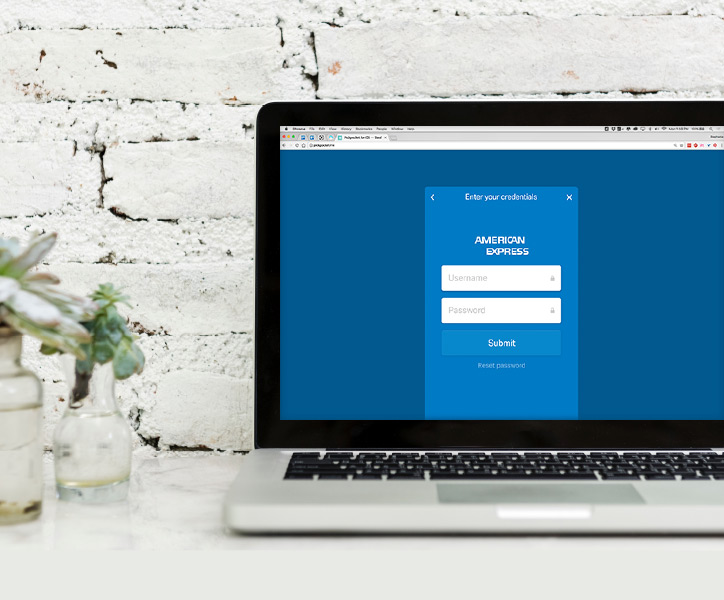
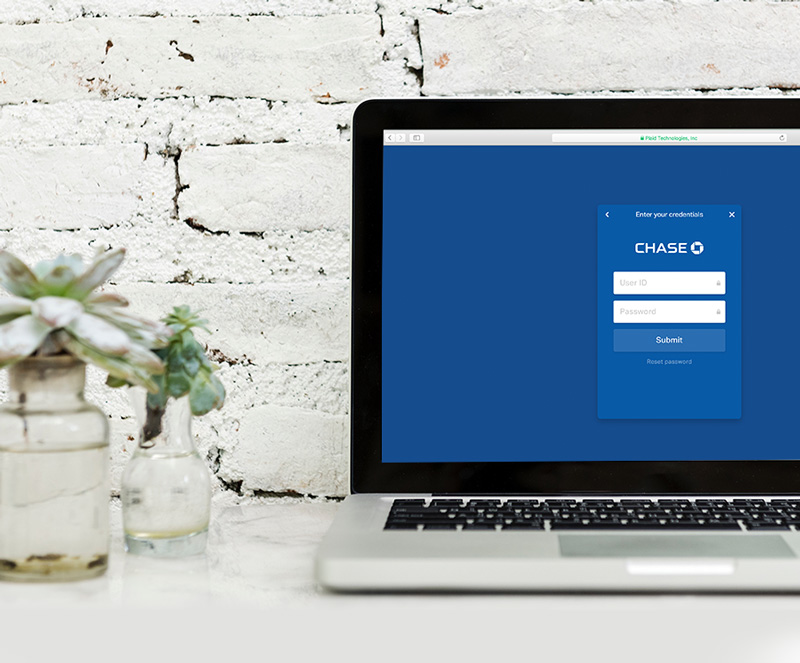
- Refactoring email sign up component into their own two directives: one for sponsors and one for graduates
- Adjusting css for mail sign up component for small/medium devices

 - Updating copy on sponsor matching plan section

 - Updating image for sponsor plaid auth image

diff --git a/client/js/home/sponsor-home.html b/client/js/home/sponsor-home.html
@@ -30,40 +30,9 @@
 
               <div class="small-12 columns">
 
-                <div class="mailSignupCta">
+                <sponsor-mail-sign-up-dir input-label="header-early-access-email">
 
-                  <!-- Begin MailChimp Signup Form -->
-                  <form action="https://wordpress.us13.list-manage.com/subscribe/post?u=fdcdf8761c23d6e5445378981&amp;id=bef5e6e0d5" method="post" id="mc-embedded-subscribe-form" name="mc-embedded-subscribe-form" class="" target="_blank" novalidate>
-                  
-                    <div class="grid  grid--flexDirectionColumn  large-grid--flexDirectionRow large-grid--center med-grid--stretch inputWithButton">
-                  
-                      <div class="input-group input--medium  inputGroup--alt  inputWithButton-input">
-                        
-                        <label for="mce-EMAIL">Enter your email address</label>
-                  
-                        <input type="email" value="" 
-                               name="EMAIL" 
-                               id="mce-EMAIL"
-                               ng-model="user.email"
-                               floating-label>
-                      </div>
-                  
-                      <button type="submit" value="Subscribe" name="subscribe" id="mc-embedded-subscribe" class="button--secondary button--medium">Join the Waitlist</button>
-                      
-                    </div>
-                  
-                    <div id="mce-responses" class="clear">
-                        <div class="response" id="mce-error-response" style="display:none"></div>
-                        <div class="response" id="mce-success-response" style="display:none"></div>
-                    </div>   
-                   
-                     <!-- real people should not fill this in and expect good things - do not remove this or risk form bot signups-->
-                    <div style="position: absolute; left: -5000px;" aria-hidden="true"><input type="text" name="b_fdcdf8761c23d6e5445378981_bef5e6e0d5" tabindex="-1" value=""></div>
-                  
-                  </form>
-                  <!--End mc_embed_signup-->
-
-                </div>
+                </sponsor-mail-sign-up-dir>             
 
               </div>
             
@@ -233,7 +202,7 @@
                               
                     <li class="list-item">Motivate your Graduate to pay down their loans using Pickpocket.</li>
                     <li class="list-item">Match every extra penny they put towards their loans.</li>
-                    <li class="list-item">Set a monthly limit.</li>
+                    <li class="list-item">Set a monthly limit on your matching dollars.</li>
                               
                     </ul> 
 
@@ -475,40 +444,11 @@
             </p>
 
             <div class="row">
-              <div class="small-12 medium-8  large-9 medium-centered  columns">
-                <!-- Begin MailChimp Signup Form -->
-                <form action="https://wordpress.us13.list-manage.com/subscribe/post?u=fdcdf8761c23d6e5445378981&amp;id=2b92ad93b9" method="post" id="mc-embedded-subscribe-form" name="mc-embedded-subscribe-form" target="_blank" novalidate>
-                    
-                  <div class="grid  grid--flexDirectionColumn  large-grid--flexDirectionRow large-grid--center large-grid--stretch inputWithButton">
-                
-                    <div class="input-group input--medium  inputGroup--alt  inputWithButton-input">
-                      <label for="mce-EMAIL2">
-                        Enter your email address
-                      </label>
-                      <input type="email" 
-                             value="" 
-                             name="EMAIL2"  
-                             id="mce-EMAIL" 
-                             ng-model="user.email2"
-                             floating-label>
-                    </div>
-                
-                     <button type="submit" value="Subscribe" name="subscribe" id="mc-embedded-subscribe" class="button--secondary button--medium inputWithButton-button">Join the Waitlist</button>
-                
-                    </div>
-                
-                    <div id="mce-responses" class="clear">
-                        <div class="response" id="mce-error-response" style="display:none"></div>
-                        <div class="response" id="mce-success-response" style="display:none"></div>
-                    </div>   
-                   
-                     <!-- real people should not fill this in and expect good things - do not remove this or risk form bot signups-->
-                    <div style="position: absolute; left: -5000px;" aria-hidden="true"><input type="text" name="b_fdcdf8761c23d6e5445378981_2b92ad93b9" tabindex="-1" value=""></div>
-                
-                </form>
-                <!--End mc_embed_signup-->
-             </div>
+              <div class="small-12  large-10  medium-centered columns grid  grid--justifyCenter">
+                <sponsor-mail-sign-up-dir input-label="early-access-email">
 
+                </sponsor-mail-sign-up-dir>        
+             </div>
           </div>
 
         </div>

diff --git a/client/js/home/home.html b/client/js/home/home.html
@@ -28,42 +28,9 @@
 
               <div class="small-12 columns">
 
-                <div class="mailSignupCta">
+                <graduate-mail-sign-up-dir input-label="header-early-access-email">
 
-                  <!-- Begin MailChimp Signup Form -->
-                  <form action="https://wordpress.us13.list-manage.com/subscribe/post?u=fdcdf8761c23d6e5445378981&amp;id=2b92ad93b9" method="post" id="mc-embedded-subscribe-form" name="mc-embedded-subscribe-form" target="_blank" novalidate>
-                      
-                    <div class="grid  grid--flexDirectionColumn  large-grid--flexDirectionRow large-grid--center large-grid--stretch inputWithButton">
-                  
-                      <div class="input-group input--medium  inputGroup--alt  inputWithButton-input">
-                        <label for="mce-EMAIL">
-                          Enter Your email address
-                        </label>
-                        <input type="email" 
-                               value="" 
-                               name="EMAIL"  
-                               id="mce-EMAIL" 
-                               ng-model="user.email_bottom"
-                               floating-label>
-                      </div>
-                  
-                       <button type="submit" value="Subscribe" name="subscribe" id="mc-embedded-subscribe" class="button--secondary button--medium inputWithButton-button">Join the Waitlist</button>
-                  
-                      </div>
-                  
-                      <div id="mce-responses" class="clear">
-                          <div class="response" id="mce-error-response" style="display:none"></div>
-                          <div class="response" id="mce-success-response" style="display:none"></div>
-                      </div>   
-                     
-                       <!-- real people should not fill this in and expect good things - do not remove this or risk form bot signups-->
-                      <div style="position: absolute; left: -5000px;" aria-hidden="true"><input type="text" name="b_fdcdf8761c23d6e5445378981_2b92ad93b9" tabindex="-1" value=""></div>
-                  
-                  </form>
-                  <!--End mc_embed_signup-->
-
-
-                </div>
+                </graduate-mail-sign-up-dir>
 
               </div>
             
@@ -643,40 +610,9 @@
                      Pickpocket is now live! We're actively adding people from the waiting list, so enter your email to reserve a spot.
                     </p>
 
-                    <div class="mailSignupCta">
-                        <!-- Begin MailChimp Signup Form -->
-                      <form action="https://wordpress.us13.list-manage.com/subscribe/post?u=fdcdf8761c23d6e5445378981&amp;id=2b92ad93b9" method="post" id="mc-embedded-subscribe-form" name="mc-embedded-subscribe-form" target="_blank" novalidate>
-                          
-                        <div class="grid  grid--flexDirectionColumn  med-grid--flexDirectionRow med-grid--center med-grid--stretch inputWithButton">
+                    <graduate-mail-sign-up-dir input-label="early-access-email">
                       
-                          <div class="input-group input--medium  inputGroup--alt  inputWithButton-input">
-                            <label for="mce-EMAIL2">
-                              Your email address
-                            </label>
-                            <input type="email" 
-                                   value="" 
-                                   name="EMAIL2"  
-                                   id="mce-EMAIL" 
-                                   ng-model="user.email"
-                                   floating-label>
-                          </div>
-                      
-                           <button type="submit" value="Subscribe" name="subscribe" id="mc-embedded-subscribe" class="button--secondary button--medium">Join the Waitlist</button>
-                      
-                          </div>
-                      
-                          <div id="mce-responses" class="clear">
-                              <div class="response" id="mce-error-response" style="display:none"></div>
-                              <div class="response" id="mce-success-response" style="display:none"></div>
-                          </div>   
-                         
-                           <!-- real people should not fill this in and expect good things - do not remove this or risk form bot signups-->
-                          <div style="position: absolute; left: -5000px;" aria-hidden="true"><input type="text" name="b_fdcdf8761c23d6e5445378981_2b92ad93b9" tabindex="-1" value=""></div>
-                      
-                      </form>
-                      <!--End mc_embed_signup-->
-
-                    </div>
+                    </graduate-mail-sign-up-dir>
 
          <!--          <a href="">
                       <img src="assets/images/logo-appStore.svg" alt="Apple App Store Badge" width="180">

diff --git a/client/js/home/graduateMailSignUp.html b/client/js/home/graduateMailSignUp.html
@@ -1,0 +1,35 @@
+
+<div class="mailSignupCta">
+
+  <!-- Begin MailChimp Signup Form -->
+  <form action="https://wordpress.us13.list-manage.com/subscribe/post?u=fdcdf8761c23d6e5445378981&amp;id=2b92ad93b9" method="post" id="mc-embedded-subscribe-form" name="mc-embedded-subscribe-form" target="_blank" novalidate>
+      
+    <div class="grid  grid--flexDirectionColumn  large-grid--flexDirectionRow large-grid--stretch inputWithButton">
+  
+      <div class="input-group input--medium  inputGroup--alt  inputWithButton-input">
+        <label for="{{mailSignUp.inputLabel}}">
+          Enter Your email address
+        </label>
+        <input type="email" 
+               name="EMAIL"  
+               id="{{mailSignUp.inputLabel}}" 
+               ng-model="mailSignUp.userEmail"
+               floating-label>
+      </div>
+  
+       <button type="submit" value="Subscribe" name="subscribe" id="mc-embedded-subscribe" class="button--secondary button--medium inputWithButton-button">Join the Waitlist</button>
+  
+      </div>
+  
+      <div id="mce-responses" class="clear">
+          <div class="response" id="mce-error-response" style="display:none"></div>
+          <div class="response" id="mce-success-response" style="display:none"></div>
+      </div>   
+     
+       <!-- real people should not fill this in and expect good things - do not remove this or risk form bot signups-->
+      <div style="position: absolute; left: -5000px;" aria-hidden="true"><input type="text" name="b_fdcdf8761c23d6e5445378981_2b92ad93b9" tabindex="-1" value=""></div>
+  
+  </form>
+  <!--End mc_embed_signup-->
+
+</div>

diff --git a/client/js/home/sponsorMailSignUp.html b/client/js/home/sponsorMailSignUp.html
@@ -1,0 +1,35 @@
+
+<div class="mailSignupCta">
+
+    <!-- Begin MailChimp Signup Form -->
+    <form action="https://wordpress.us13.list-manage.com/subscribe/post?u=fdcdf8761c23d6e5445378981&amp;id=bef5e6e0d5" method="post" id="mc-embedded-subscribe-form" name="mc-embedded-subscribe-form" class="" target="_blank" novalidate>
+  
+    <div class="grid  grid--flexDirectionColumn  large-grid--flexDirectionRow  large-grid--stretch inputWithButton">
+  
+      <div class="input-group input--medium  inputGroup--alt  inputWithButton-input">
+        
+        <label for="{{mailSignUp.inputLabel}}">Enter your email address</label>
+  
+        <input type="email" 
+               name="EMAIL" 
+               id="{{mailSignUp.inputLabel}}"
+               ng-model="user.email"
+               floating-label>
+      </div>
+  
+      <button type="submit" value="Subscribe" name="subscribe" id="mc-embedded-subscribe" class="button--secondary button--medium">Join the Waitlist</button>
+      
+    </div>
+  
+    <div id="mce-responses" class="clear">
+        <div class="response" id="mce-error-response" style="display:none"></div>
+        <div class="response" id="mce-success-response" style="display:none"></div>
+    </div>   
+   
+     <!-- real people should not fill this in and expect good things - do not remove this or risk form bot signups-->
+    <div style="position: absolute; left: -5000px;" aria-hidden="true"><input type="text" name="b_fdcdf8761c23d6e5445378981_bef5e6e0d5" tabindex="-1" value=""></div>
+  
+  </form>
+  <!--End mc_embed_signup-->
+
+</div>

diff --git a/client/css/main.css b/client/css/main.css
@@ -18458,7 +18458,7 @@ input[type="radio"].radio--large + label {
   width: 100%;
   margin-right: auto;
   margin-left: auto;
-  z-index: 6;
+  z-index: 103;
   padding-top: 5.25rem;
 }
 @media only screen and (min-width: 40.0625em) {
@@ -20913,6 +20913,7 @@ img {
 /* line 7, ../scss/components/_mailListSignupCta.scss */
 .mailSignupCta {
   width: 100%;
+  max-width: 25rem;
 }
 @media only screen and (min-width: 64.0625em) {
   /* line 7, ../scss/components/_mailListSignupCta.scss */
@@ -20922,12 +20923,12 @@ img {
   }
 }
 @media only screen and (min-width: 40.0625em) {
-  /* line 16, ../scss/components/_mailListSignupCta.scss */
+  /* line 18, ../scss/components/_mailListSignupCta.scss */
   .mailSignupCta input {
     min-width: 13.5rem;
   }
 }
-/* line 24, ../scss/components/_mailListSignupCta.scss */
+/* line 26, ../scss/components/_mailListSignupCta.scss */
 .mailSignupCta button {
   min-width: 9.375rem;
 }

diff --git a/client/js/home/graduateMailSignUpDir.js b/client/js/home/graduateMailSignUpDir.js
@@ -1,0 +1,34 @@
+
+'use strict';
+
+/*------------------------------------*\
+    Graduate Mail Sign Up Directive
+\*------------------------------------*/
+
+twopence.directive('graduateMailSignUpDir', function() {
+
+  return {
+
+    restrict: "E",
+    scope: {}, 
+    replace: true,
+    templateUrl: "js/home/graduateMailSignUp.html",
+    controller: function() {
+
+      var vm = this; 
+
+    }, 
+    controllerAs: "mailSignUp", 
+    bindToController: {
+
+      inputLabel: "@"
+
+    },
+    link: function(scope, element, attrs) {
+
+
+    }
+
+  }
+
+}); 

diff --git a/client/js/home/sponsorMailSignUpDir.js b/client/js/home/sponsorMailSignUpDir.js
@@ -1,0 +1,34 @@
+
+'use strict';
+
+/*------------------------------------*\
+    Sponsor Mail Sign Up Directive
+\*------------------------------------*/
+
+twopence.directive('sponsorMailSignUpDir', function() {
+
+  return {
+
+    restrict: "E",
+    scope: {}, 
+    replace: true,
+    templateUrl: "js/home/sponsorMailSignUp.html",
+    controller: function() {
+
+      var vm = this; 
+
+    }, 
+    controllerAs: "mailSignUp", 
+    bindToController: {
+
+      inputLabel: "@"
+
+    },
+    link: function(scope, element, attrs) {
+
+
+    }
+
+  }
+
+}); 

diff --git a/client/index.html b/client/index.html
@@ -165,6 +165,8 @@
     <script src="js/home/homeCtrl.js"></script>
     <script src="js/home/footerDir.js"></script>
     <script src="js/home/fixedCtaDir.js"></script>
+    <script src="js/home/graduateMailSignUpDir.js"></script>
+    <script src="js/home/sponsorMailSignUpDir.js"></script>
 
 
     <!--Log in-->

diff --git a/client/scss/layout/_navs.scss b/client/scss/layout/_navs.scss
@@ -184,7 +184,7 @@
     width: 100%; 
     margin-right: auto;
     margin-left: auto; 
-    z-index: 6; 
+    z-index: 103; 
     padding-top: rem-calc($level7 + $level6); 
     @extend %text-left; 
 

diff --git a/client/scss/components/_mailListSignupCta.scss b/client/scss/components/_mailListSignupCta.scss
@@ -6,6 +6,8 @@
 
 .mailSignupCta {
   width: 100%;
+  max-width: rem-calc(400px);
+
 
   @media #{$large-up} {
     max-width: rem-calc(420px); 
